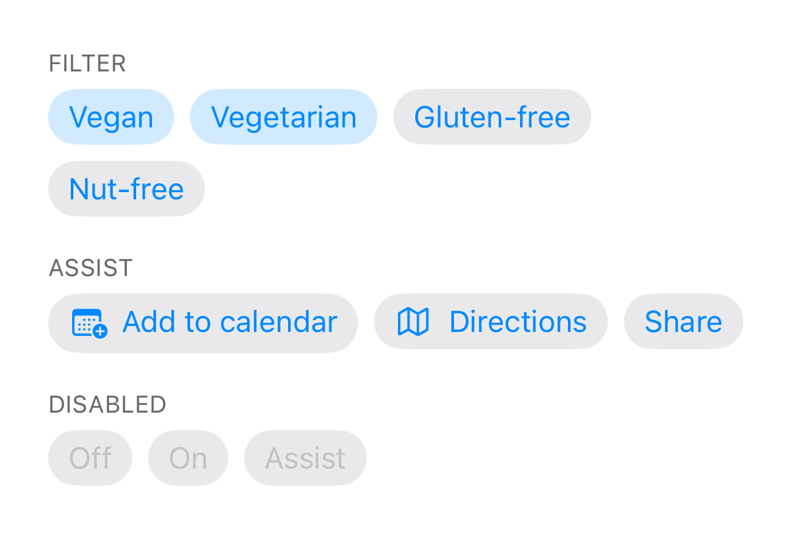
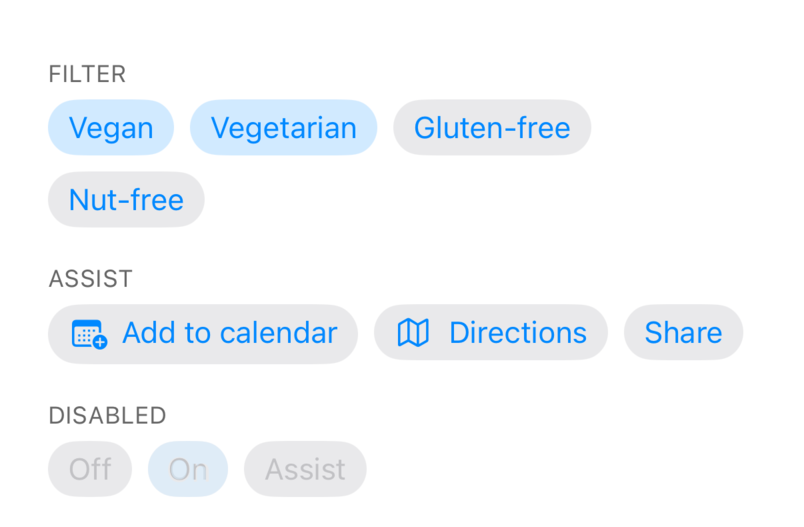
docs(chip): what a disabled selected iOS chip draws
The Limits line that said a disabled iOS chip draws the same either way is gone;
the behaviour notes say what it draws now, and the Limits keep the one case that
is still a limit: the fade runs toward the system background colour, not the
surface under the chip. README iOS pair retaken from the Chip States story.

diff --git a/docs/components/chip.md b/docs/components/chip.md
@@ -155,6 +155,12 @@ tested by real input (`RealInputTests.testRealInputChip`).
   toggle's event count, as a controlled chip's does: native holds the toggle's
   size report until a batch has seen every toggle, so two quick toggles cannot
   file one state's width under the other state's key.
+- **A dimmed selected chip keeps its selection on iOS.** SwiftUI's disabled
+  bordered style drops a toggle's selected fill, so for that one state the chip
+  lays one back: the bordered style's tint, faded toward the system background
+  colour, drawn under the label rather than over it. The label is still
+  SwiftUI's own, so it dims exactly as a disabled unselected chip's does.
+  Android's Material chip already kept the fill.
 - **Recycling resets everything.** `NitroUiChip` implements `RecyclableView`: a
   reused instance resets its model, the handshake's counters included, and
   re-seeds `defaultSelected`.
@@ -164,9 +170,9 @@ tested by real input (`RealInputTests.testRealInputChip`).
 - Two kinds only. Material's `input` and `suggestion` chips are not supported, and
   there is no trailing icon, avatar or close button.
 - No `tintColor`. Both platforms draw their own selected colours.
-- On iOS a disabled chip draws the same whether or not it is selected:
-  SwiftUI's disabled bordered style drops the selected fill (the "Disabled" row
-  of the README screenshot).
+- **On iOS a dimmed selected chip fades toward the system background colour**,
+  not toward whatever surface it happens to sit on. Off that background such a
+  chip can read lighter than the chips beside it.
 - `systemImage` is iOS only, like Button's. Android does not draw it — and `androidIcon`
   is Android-only, so a chip that wants a leading glyph on both platforms names both.
 - **No check mark slide-in on Android.** Material 3 animates the check mark's

diff --git a/docs/tasks/FOLLOWUPS.md b/docs/tasks/FOLLOWUPS.md
@@ -162,7 +162,6 @@ deleted. A `FOLLOWUPS.md:NN` cited in code is a line number from before that pru
 - G12 Chip: bench arms (mount, toggle); hosting inside `<Host>` (`hostable: false`, refused by name; a later task covers Chip and TextField); `tintColor`; input/suggestion chips.
 - Picker (Android): the same size-hold design Chip had before G12 fix round 1. `HybridNitroUiPicker.afterUpdate` ends the hold on the first props batch after a pick, so a second pick that reaches native before the first pick's batch, or a batch already in flight with the old index, files the new title's width under the key it carries; an uncontrolled Picker does not echo its event count. Chip's fix (echo in uncontrolled mode, release only when `jsEvents >= nativeEvents`) and its "two quick toggles" harness case are the template.
 - `escapeField` (the sizing-key field escape) has four copies: Chip, Menu, Picker and SegmentedControl. Move it to `src/core/`.
-- G12 Chip (iOS): a disabled selected chip draws as unselected (SwiftUI's disabled bordered style drops the fill).
 - G12 Host sizing (Android): content that animates its intrinsic width settles short, because over-wide placement stops reporting; Chip passes M3 a fixed leading slot to avoid it.
 - G12 Conformance (Android): Switch's controlled recycle probe is probably vacuous: its second owner is controlled at `false`, which is what `reset()`'s `displayed = false` leaves, the coincidence that kept Chip's green with the counter reset deleted.
 - G12: `scripts/conformance/make-a11y-fixtures.mjs` dumps for switch/button/menu now differ from the committed fixtures (only `chip.xml` was regenerated).

diff --git a/.changeset/chip-disabled-selected-fill.md b/.changeset/chip-disabled-selected-fill.md
@@ -1,0 +1,5 @@
+---
+'react-native-nitro-ui': patch
+---
+
+`Chip`: on iOS a filter chip that is both selected and disabled keeps a dimmed version of its selected fill. SwiftUI's disabled bordered style drops a toggle's selected fill, so a dimmed filter chip drew exactly the same selected or not and the selection looked withdrawn. The chip now lays the bordered style's tint back for that state, faded toward the system background colour and drawn under the label, so the label stays SwiftUI's own and is as legible as an unselected dimmed chip's. Android is unchanged.
